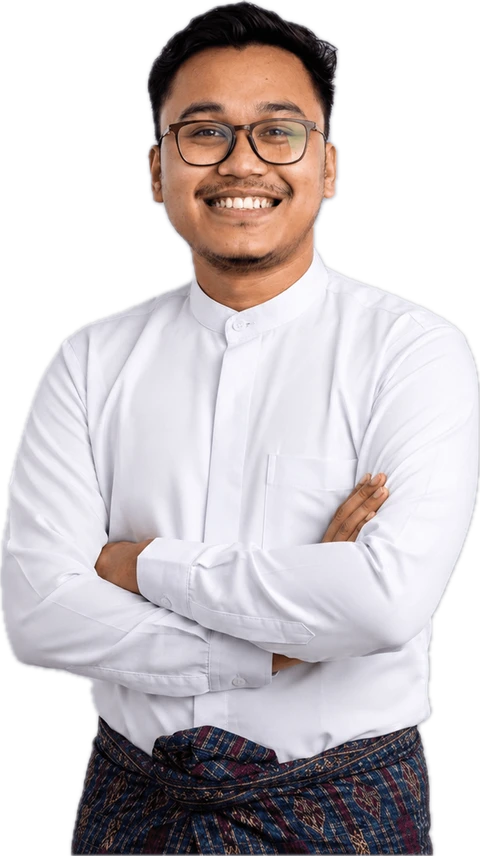
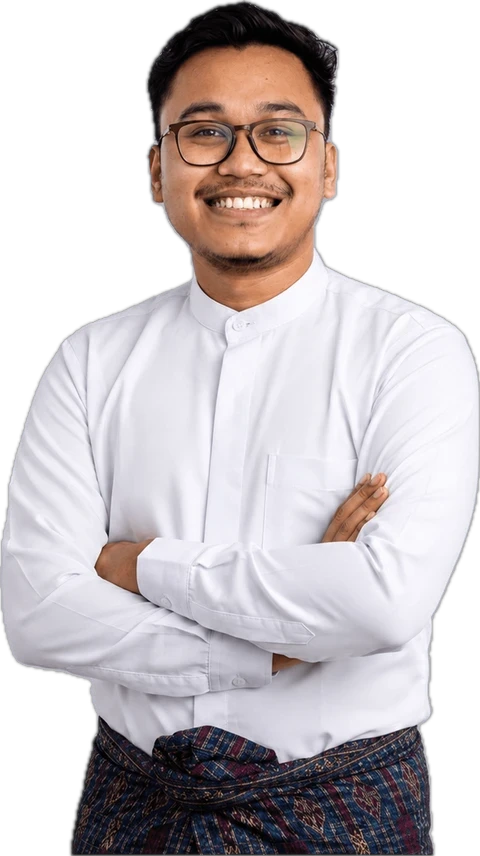
Smooth the dark/light transition, fix hero photo white fringing
- globals.css: a base-layer transition (color-related properties
  only, never transform/opacity, so it can't fight Framer Motion) on
  every element, so the whole page eases between themes instead of
  snapping instantly. Lower specificity than any component's own
  transition-* utility, so nothing already-declared changes.
- ThemeToggle: the sun/moon icon swap was an instant conditional
  render with no transition at all — now crossfades with a
  rotate+scale, matching the app's existing motion language.
- assets/img/hero-oke.webp: the cutout had a light halo around the
  hair and shoulders in dark mode — semi-transparent edge pixels
  still carried a color blend toward the original white background,
  invisible on a white page but visible as fringing on dark. Fixed by
  decontaminating those edge pixels' true color from their alpha
  (recovering the color without the white bias) rather than just
  masking them, so light mode is pixel-identical and dark mode is
  clean.

diff --git a/components/ThemeToggle.jsx b/components/ThemeToggle.jsx
@@ -1,6 +1,9 @@
 'use client'
 
 import { useEffect, useState } from 'react'
+import { AnimatePresence, motion } from 'framer-motion'
+
+const EASE = [0.16, 1, 0.3, 1]
 
 export default function ThemeToggle() {
   // null until mounted: avoids rendering an icon that might not match the
@@ -31,18 +34,45 @@ export default function ThemeToggle() {
       type="button"
       onClick={toggle}
       aria-label={isDark ? 'Switch to light theme' : 'Switch to dark theme'}
-      className="flex h-11 w-11 shrink-0 items-center justify-center rounded-full bg-white/90 text-ink shadow-sm backdrop-blur-sm transition-colors duration-300 hover:bg-white"
+      className="relative flex h-11 w-11 shrink-0 items-center justify-center overflow-hidden rounded-full bg-white/90 text-ink shadow-sm backdrop-blur-sm transition-colors duration-300 hover:bg-white"
     >
-      {isDark ? (
-        <svg viewBox="0 0 24 24" className="h-[18px] w-[18px]" fill="none" stroke="currentColor" strokeWidth="1.6" strokeLinecap="round">
-          <circle cx="12" cy="12" r="4.5" />
-          <path d="M12 2.5v2.2M12 19.3v2.2M4.2 4.2l1.55 1.55M18.25 18.25l1.55 1.55M2.5 12h2.2M19.3 12h2.2M4.2 19.8l1.55-1.55M18.25 5.75l1.55-1.55" />
-        </svg>
-      ) : (
-        <svg viewBox="0 0 24 24" className="h-[18px] w-[18px]" fill="none" stroke="currentColor" strokeWidth="1.6" strokeLinecap="round" strokeLinejoin="round">
-          <path d="M20 14.5A8.5 8.5 0 1 1 9.5 4a7 7 0 0 0 10.5 10.5Z" />
-        </svg>
-      )}
+      <AnimatePresence mode="wait" initial={false}>
+        {isDark ? (
+          <motion.svg
+            key="sun"
+            initial={{ opacity: 0, rotate: -90, scale: 0.5 }}
+            animate={{ opacity: 1, rotate: 0, scale: 1 }}
+            exit={{ opacity: 0, rotate: 90, scale: 0.5 }}
+            transition={{ duration: 0.35, ease: EASE }}
+            viewBox="0 0 24 24"
+            className="absolute h-[18px] w-[18px]"
+            fill="none"
+            stroke="currentColor"
+            strokeWidth="1.6"
+            strokeLinecap="round"
+          >
+            <circle cx="12" cy="12" r="4.5" />
+            <path d="M12 2.5v2.2M12 19.3v2.2M4.2 4.2l1.55 1.55M18.25 18.25l1.55 1.55M2.5 12h2.2M19.3 12h2.2M4.2 19.8l1.55-1.55M18.25 5.75l1.55-1.55" />
+          </motion.svg>
+        ) : (
+          <motion.svg
+            key="moon"
+            initial={{ opacity: 0, rotate: 90, scale: 0.5 }}
+            animate={{ opacity: 1, rotate: 0, scale: 1 }}
+            exit={{ opacity: 0, rotate: -90, scale: 0.5 }}
+            transition={{ duration: 0.35, ease: EASE }}
+            viewBox="0 0 24 24"
+            className="absolute h-[18px] w-[18px]"
+            fill="none"
+            stroke="currentColor"
+            strokeWidth="1.6"
+            strokeLinecap="round"
+            strokeLinejoin="round"
+          >
+            <path d="M20 14.5A8.5 8.5 0 1 1 9.5 4a7 7 0 0 0 10.5 10.5Z" />
+          </motion.svg>
+        )}
+      </AnimatePresence>
     </button>
   )
 }

diff --git a/app/globals.css b/app/globals.css
@@ -38,3 +38,19 @@ body {
 .dark body {
   background: var(--color-ink);
 }
+
+/* Smooth every color-related change site-wide — most directly the dark/light
+   toggle, but this also polishes any hover state that never had its own
+   transition declared. Deliberately color-only (never transform/opacity),
+   so it can't fight Framer Motion's own transform-driven animations, and it
+   sits in Tailwind's base layer so any component's own `transition-*` /
+   `duration-*` utility (higher specificity) still wins over this default. */
+@layer base {
+  *,
+  ::before,
+  ::after {
+    transition-property: color, background-color, border-color, text-decoration-color, fill, stroke;
+    transition-timing-function: cubic-bezier(0.16, 1, 0.3, 1);
+    transition-duration: 350ms;
+  }
+}
